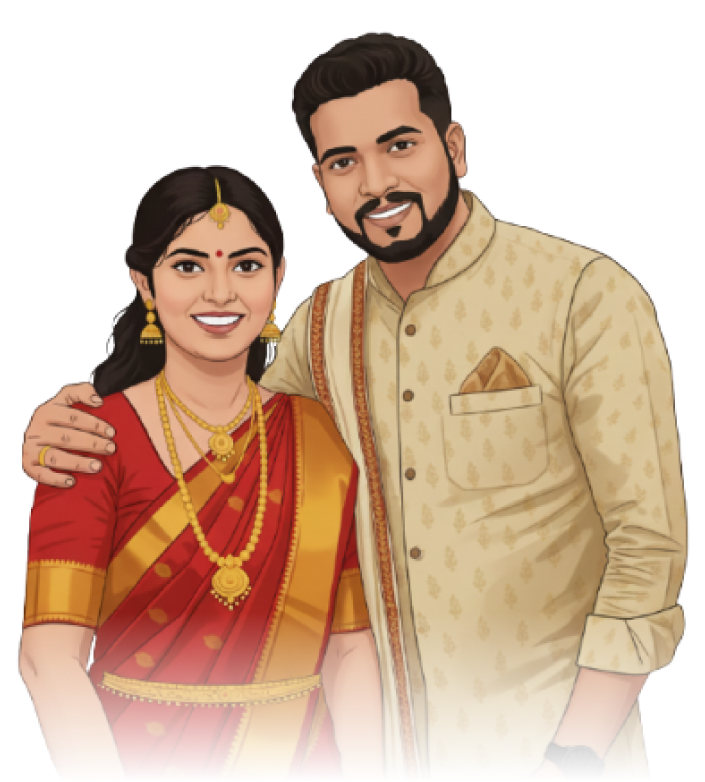
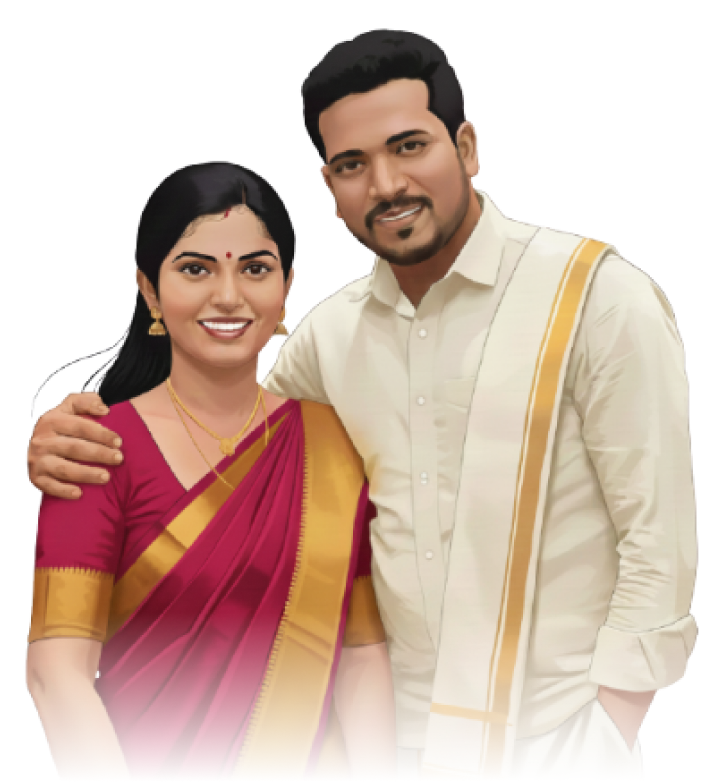
Sub final commit - with updated hero image and address change

diff --git a/components/Await.jsx b/components/Await.jsx
@@ -16,7 +16,7 @@ const Await = () => {
       <p className="text-center text-[#555] mt-2 text-sm md:text-lg">
         'Vinoda Nilaya' , Salikeri
       </p>
-      <div className="flex items-center justify-center gap-4 my-4">
+      <div className="flex items-center justify-center gap-4 my-6">
         <div className="h-px w-24 bg-gradient-to-r from-transparent to-rose-400"></div>
         <div className="flex gap-1">
           <Heart className="text-rose-500 " fill="currentColor" size={24} />
@@ -29,26 +29,41 @@ const Await = () => {
         </div>
         <div className="h-px w-24 bg-gradient-to-l from-transparent to-rose-400"></div>
       </div>
-      <p className="text-center font-medium  text-[#555] mt-2 md:text-xl">
+      <p className="text-center font-medium  text-[#555] mt-4 md:text-xl ">
         Smt. Lakshmi & Sri. Gururaj Shettigar & their children
       </p>
-      <p className="text-center text-[#555] mb-4 text-sm md:text-lg">
+      <p className="text-center text-[#555] mb-2 mt-1 text-sm md:text-lg">
         Chikkamagaluru, Chitpady, Udupi
       </p>
+      <div className="flex items-center justify-center gap-4 my-6">
+        <div className="h-px w-24 bg-gradient-to-r from-transparent to-gray-400"></div>
+
+        <div className="h-px w-24 bg-gradient-to-l from-transparent to-gray-400"></div>
+      </div>
       <p className="text-center font-medium  text-[#555] mt-2 md:text-xl">
         Smt. Akkayya & the late Sheena Shettigar’s children, daughters-in-law,
         son-in-law, grandchildren
       </p>
-      <p className="text-center text-[#555] mb-4 text-sm md:text-lg">
+      <p className="text-center text-[#555] mb-2 mt-1 text-sm md:text-lg">
         Ulloor, Kadinakonda
       </p>
+      <div className="flex items-center justify-center gap-4 my-6">
+        <div className="h-px w-24 bg-gradient-to-r from-transparent to-gray-400"></div>
+
+        <div className="h-px w-24 bg-gradient-to-l from-transparent to-gray-400"></div>
+      </div>
       <p className="text-center font-medium  text-[#555] mt-2 md:text-xl">
         The family members of “Vinoda Nilaya”
       </p>
-      <p className="text-center text-[#555] mb-4 text-sm md:text-lg">
+      <p className="text-center text-[#555] mb-2 mt-1 text-sm md:text-lg">
         Salikeri
       </p>
-      <p className="text-center font-medium  text-[#555] mt-2 md:text-xl">
+      <div className="flex items-center justify-center gap-4 my-6">
+        <div className="h-px w-24 bg-gradient-to-r from-transparent to-gray-400"></div>
+
+        <div className="h-px w-24 bg-gradient-to-l from-transparent to-gray-400"></div>
+      </div>
+      <p className="text-center font-medium  text-[#555] mt-2 mb-4 md:text-xl">
         Along with relatives and friends
       </p>
     </section>

diff --git a/components/Venue.jsx b/components/Venue.jsx
@@ -16,12 +16,13 @@ const Venue = () => {
           target="_blank"
           rel="noopener noreferrer"
           href={"https://maps.app.goo.gl/NE54mg21dNfUtwCn8"}
-          className="text-center font-medium text-lg text-[#555] mt-2 md:text-2xl"
+          className="text-center font-medium text-xl text-gray-700 mt-2 md:text-2xl"
         >
           Shree Narayanaguru SabhaBhavana
         </Link>
         <p className="text-center text-[#555] mt-2 text-sm md:text-lg mb-4">
-          CPQR+C2Q, Edapally - Panvel Hwy, Kochi, Bramavara, Karnataka 576213
+          Near Taluk Office ( Adalitha Souda ) , Akashavani, Brahmavara,
+          Karnataka -576213
         </p>
         <button
           className="h-10 w-full max-w-[400px] py-2 rounded-lg bg-gradient-to-r from-rose-500 to-amber-500 hover:from-rose-600 hover:to-amber-600 text-white shadow-lg"

diff --git a/components/Footer.jsx b/components/Footer.jsx
@@ -5,11 +5,18 @@ import React, { lazy } from "react";
 
 const Footer = () => {
   return (
-    <footer className="relative bg-gradient-to-b from-rose-100 to-rose-300  px-4 mt-20 md:mt-30">
+    <footer className="relative bg-gradient-to-b from-rose-100 to-rose-300  px-4 mt-25 md:mt-30">
       <Image
         src={IMAGES.floralFooter}
         className="w-[200px] md:w-[250px] absolute top-2 left-0 right-0 mx-auto -translate-y-1/2"
         alt="floral Decoration"
+      />
+      <Image
+        className="absolute top-[-5] opacity-0.8 left-0 right-0 mx-auto -translate-y-1/2 mx-auto  right-0 z-[12] "
+        src={IMAGES.butterfly}
+        alt="butterfly"
+        priority
+        unoptimized
       />
       <div className="max-w-4xl mx-auto flex flex-col justify-center min-h-50 pt-5">
         {/* Footer Content */}

diff --git a/images.js b/images.js
@@ -1,8 +1,9 @@
 import heroImg from "./assets/hero-img.png";
 import logo from "./assets/logo.png";
 import wedLogo from "./assets/wed-logo.png";
-import wedHero from "./assets/wed-hero2.png";
+import wedHero from "./assets/wed-hero.png";
 import bgHero from "./assets/bg-hero.gif";
+import butterfly from "./assets/butterfly.gif";
 import prathiGana from "./assets/prathiGana.png";
 import coralHeart from "./assets/coralheart.png";
 import whiteHeart from "./assets/whiteHeart.png";
@@ -32,4 +33,5 @@ export const IMAGES = {
   floralDecTop1,
   floralFooter,
   hangingFlower,
+  butterfly,
 };

diff --git a/components/Muhurtha.jsx b/components/Muhurtha.jsx
@@ -6,7 +6,7 @@ const Muhurtha = () => {
       <h1 className="text-center font-greatvibes  text-rose-500 text-4xl md:text-6xl mb-6">
         Muhurtham
       </h1>
-      <p className="text-center font-medium text-lg text-[#555] mt-2 md:text-2xl">
+      <p className="text-center font-medium text-xl text-gray-700 mt-2 md:text-2xl">
         01-12-2025 , Monday , 12:10 PM
       </p>
       <p className="text-center text-[#555] mt-2 text-sm md:text-lg">
